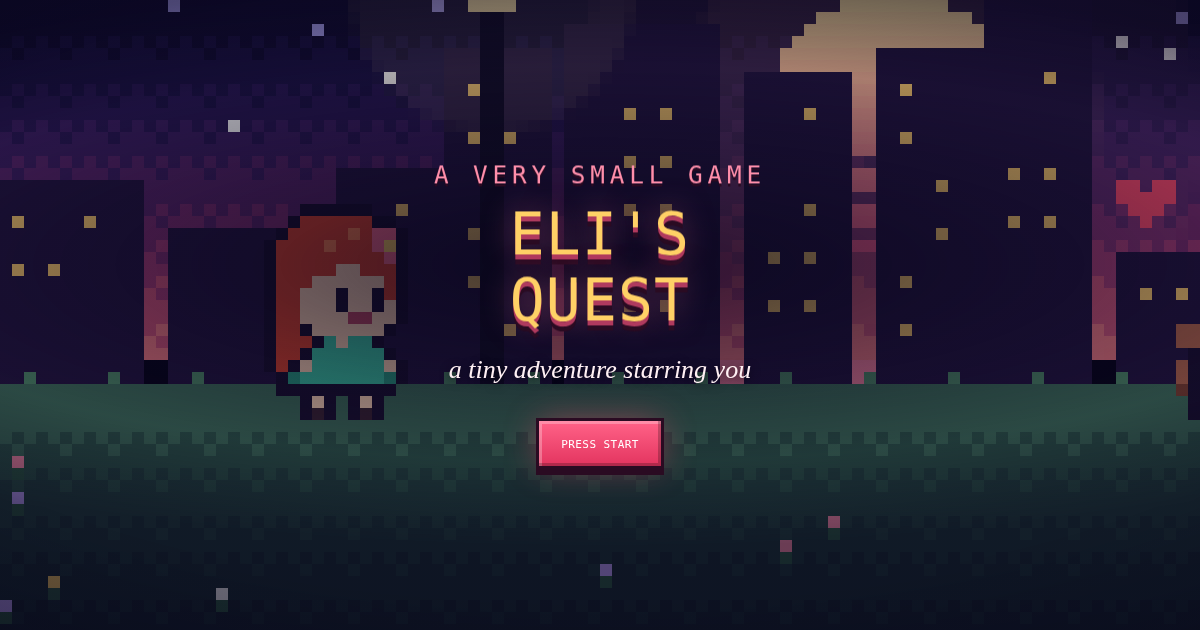
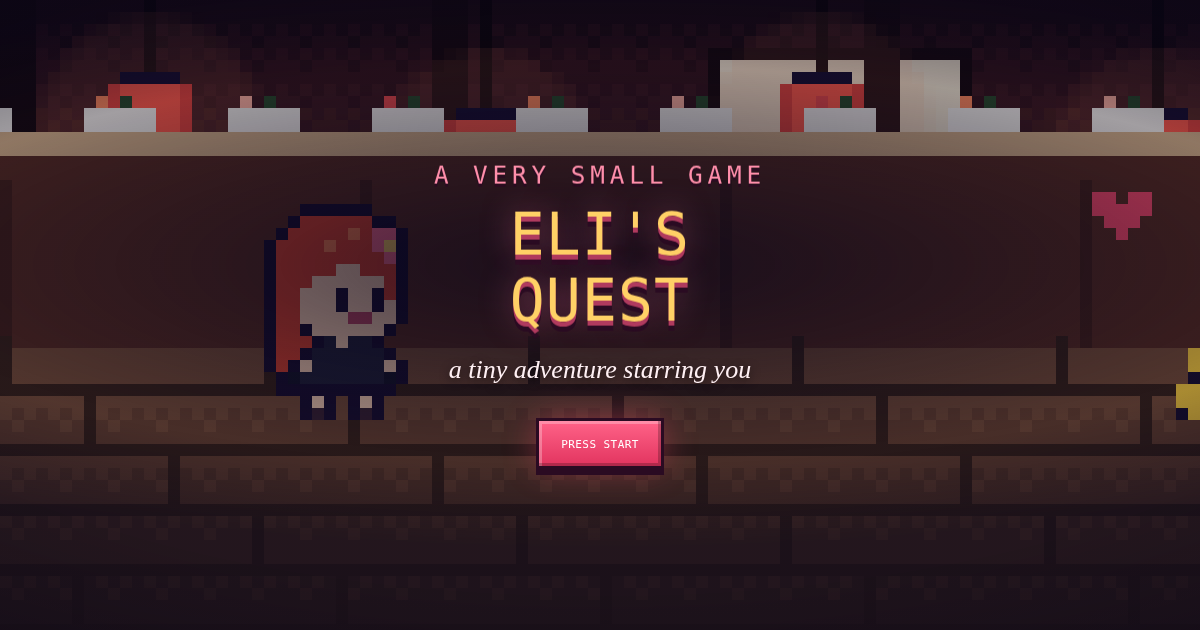
Personalize Eli's Quest with the real story
Levels now follow how they met: the sushi restaurant in Hialeah (new
hostess), after-close streets (shift leader, with roosters), the 4pm
storm flirting era, and Valentine's Day at Agave Bandido. New themes,
obstacles, work-uniform and date-night costumes, level scenes and an
ending that goes hostess, shift leader, Valentine, wife.

Claude-Session: https://claude.ai/code/session_017GTG4AepKQYuvL7zVGC7w4

diff --git a/quest/index.html b/quest/index.html
@@ -228,9 +228,9 @@ a.btn{text-decoration:none;display:inline-block}
     <div class="step fk" data-wait="900" data-sfx="levelup">QUEST COMPLETE</div>
     <div class="step fs" data-wait="1300">You collected <b id="finalCount">0</b> hearts.</div>
     <div class="step fs" data-wait="1600">(I have infinitely more for you.)</div>
-    <div class="step fb" data-wait="1900" data-sfx="reveal">You found me.</div>
-    <div class="step fs" data-wait="1400">You always do.</div>
-    <div class="step fl" data-wait="2000" data-sfx="chime">LEVEL ∞ · FOREVER WITH ME<br>UNLOCKED 🔓</div>
+    <div class="step fs" data-wait="1900">From the new hostess…<br>to my shift leader…<br>to my Valentine…</div>
+    <div class="step fb" data-wait="2600" data-sfx="reveal">…to my wife.</div>
+    <div class="step fl" data-wait="2200" data-sfx="chime">LEVEL ∞ · FOREVER<br>UNLOCKED 💍</div>
     <div class="step row" data-wait="1400"><button id="again" class="btn ghost">↺ PLAY AGAIN</button><a class="btn" href="../">OUR STORY ❤</a></div>
   </section>
   <div id="hint"><span class="ph"></span><span id="hintTxt">TAP</span></div>
@@ -376,6 +376,7 @@ const AudioSys = (() => {
     jump2() { blip(520, 1180, .12, 'pulse', .055); },
     coin() { blip(988, null, .05, 'pulse', .05); blip(1319, null, .09, 'pulse', .05, .05); },
     meow() { blip(700, 420, .22, 'triangle', .08); },
+    crow() { [[600, 900], [900, 1100], [1100, 700]].forEach(([a, b], i) => blip(a, b, .12, 'pulse', .05, .05 + i * .12)); },
     levelup() { arp([72, 76, 79, 84, 88], .08, .18, .08, 'pulse'); },
     pop() { blip(520, 1100, .08, 'triangle', .14); },
     heart() { arp([81, 85, 88], .07, .12, .09); },
@@ -678,10 +679,17 @@ function retroSun(cx, cy, r) {
 /* ---------- CONFIG: edit these lines to make it even more yours ---------- */
 const CONFIG = {
   levels: [
-    { theme: 'park',   title: 'the first hello', memory: 'The first time you smiled at me, I forgot how to talk.' },
-    { theme: 'market', title: 'snack run',       memory: 'You steal my food. I let you. That’s love.' },
-    { theme: 'rain',   title: 'rainy day',       memory: 'Even on rainy days, you’re my favorite weather.' },
-    { theme: 'hill',   title: 'under the stars', memory: 'Every star up there is a little jealous of you.' },
+    { theme: 'sushi', label: 'LEVEL 1 · HIALEAH, FL', title: 'the new hostess',
+      memory: 'You walked into Sushi Sake as the new hostess. I had no idea I\u2019d just met my whole future.',
+      girl: { D: '#23233a', d: '#16162a' }, boy: { C: '#2a2a3e', c: '#1c1c2c', P: '#1c1c2c' }, bacc: ['tux'] },
+    { theme: 'hialeah', label: 'LEVEL 2 · AFTER CLOSE', title: 'shift leader',
+      memory: 'Years of shifts side by side. You were my right hand long before you had my heart.',
+      girl: { D: '#23233a', d: '#16162a' }, boy: { C: '#2a2a3e', c: '#1c1c2c', P: '#1c1c2c' }, bacc: ['tux'] },
+    { theme: 'rain', label: 'LEVEL 3 · 4PM STORMS', title: 'the flirting era',
+      memory: 'All our little flirty moments. I still replay every single one.' },
+    { theme: 'valentine', label: 'LEVEL 4 · FEBRUARY 14', title: 'Valentine\u2019s at Agave Bandido',
+      memory: 'February 14th. Agave Bandido. Our very first date, and the start of everything.',
+      girl: { D: '#e2345f', d: '#b01f45' }, boy: { C: '#f4f0ff', c: '#d4cfe8', P: '#2b3050' } },
   ],
 };
 
@@ -699,6 +707,13 @@ const OBS = {
   cat: { w: 8, h: 7, draw(x, gy, t) { const c = '#221e33'; rect(x + 1, gy - 4, 5, 4, c); rect(x + 4, gy - 7, 4, 3, c); px(x + 4, gy - 8, c); px(x + 7, gy - 8, c); const blink = Math.floor(t / 1700) % 4 === 0; if (!blink) { px(x + 5, gy - 6, '#ffd166'); px(x + 7, gy - 6, '#ffd166'); } const tw = Math.floor(t / 300) % 2; px(x, gy - 2 - tw, c); px(x, gy - 3 - tw, c); px(x + 6, gy - 5, '#ff8fab'); } },
   puddle: { w: 12, h: 2, draw(x, gy, t) { rect(x, gy - 1, 12, 1, '#5d8fe0'); rect(x + 2, gy - 2, 8, 1, '#8fc0ff'); if (Math.floor(t / 250) % 2) px(x + 4 + Math.floor(t / 500) % 4, gy - 2, '#e6f1ff'); } },
   hedge: { w: 9, h: 7, draw(x, gy) { rect(x, gy - 7, 9, 7, '#2f6a45'); rect(x + 1, gy - 8, 7, 1, '#2f6a45'); for (let i = 0; i < 6; i++) px(x + 1 + (i * 3) % 8, gy - 6 + (i * 5) % 6, '#3f8a5a'); } },
+  stool: { w: 6, h: 7, draw(x, gy) { rect(x, gy - 7, 6, 2, '#a86b3c'); rect(x, gy - 7, 6, 1, '#c98a55'); rect(x, gy - 5, 1, 5, K_); rect(x + 5, gy - 5, 1, 5, K_); rect(x, gy - 2, 6, 1, '#7a4a28'); } },
+  wetfloor: { w: 7, h: 9, draw(x, gy) { for (let r = 0; r < 9; r++) { const hw = 1 + Math.floor(r / 3); rect(x + 3 - hw, gy - 9 + r, hw * 2 + 1, 1, r === 5 ? K_ : '#ffd23f'); } px(x + 3, gy - 7, K_); px(x + 3, gy - 6, '#ffd23f'); px(x, gy - 1, K_); px(x + 6, gy - 1, K_); } },
+  plates: { w: 6, h: 6, draw(x, gy) { for (let r = 0; r < 6; r++) { rect(x, gy - 6 + r, 6, 1, r % 2 ? '#cfc8bd' : '#f4f0ea'); } rect(x, gy - 6, 6, 1, '#3a6ea5'); } },
+  sake: { w: 4, h: 8, draw(x, gy) { rect(x + 1, gy - 8, 2, 2, '#e8f0f4'); rect(x, gy - 6, 4, 6, '#e8f0f4'); rect(x, gy - 4, 4, 2, '#c2253a'); px(x + 1, gy - 9, K_); px(x + 2, gy - 9, K_); } },
+  rooster: { w: 8, h: 9, draw(x, gy, t) { const b = Math.floor(t / 260) % 2; px(x, gy - 8, '#1f4a3a'); px(x, gy - 7, '#2f6a52'); px(x + 1, gy - 7, '#1f4a3a'); rect(x, gy - 6, 2, 2, '#2f6a52'); rect(x + 1, gy - 5, 5, 3, '#c2452d'); rect(x + 2, gy - 4, 3, 1, '#e8a04a'); rect(x + 5, gy - 8 + b, 2, 3, '#c2452d'); px(x + 5, gy - 9 + b, '#ff3040'); px(x + 6, gy - 9 + b, '#ff3040'); px(x + 7, gy - 7 + b, '#ffd166'); px(x + 6, gy - 7 + b, K_); px(x + 6, gy - 5 + b, '#ff3040'); rect(x + 3, gy - 2, 1, 2, '#ffd166'); rect(x + 4, gy - 2, 1, 2, '#ffd166'); } },
+  cart: { w: 9, h: 7, draw(x, gy) { const c = '#b8c0cc'; rect(x, gy - 7, 9, 1, c); rect(x + 1, gy - 3, 7, 1, c); for (let i = 0; i < 9; i += 2) rect(x + i, gy - 7, 1, 4, c); rect(x + 1, gy - 2, 1, 1, c); rect(x + 7, gy - 2, 1, 1, c); px(x + 1, gy - 1, K_); px(x + 7, gy - 1, K_); rect(x, gy - 6, 9, 1, 'rgba(184,192,204,.5)'); } },
+  cactus: { w: 6, h: 10, draw(x, gy) { rect(x, gy - 3, 6, 3, '#c2603a'); rect(x, gy - 3, 6, 1, '#e07a52'); rect(x + 2, gy - 10, 2, 7, '#3f9a5a'); rect(x + 1, gy - 7, 1, 2, '#3f9a5a'); px(x + 1, gy - 8, '#3f9a5a'); rect(x + 4, gy - 8, 1, 2, '#3f9a5a'); px(x + 4, gy - 9, '#3f9a5a'); px(x + 3, gy - 10, '#ff8fab'); } },
   lantern: { w: 5, h: 10, draw(x, gy, t) { rect(x + 2, gy - 8, 1, 8, K_); rect(x + 1, gy - 11, 3, 3, K_); rect(x + 2, gy - 10, 1, 1, '#ffcf70'); glow(x + 2.5, gy - 9.5, 4, '#ffcf70', .15 + .05 * Math.sin(t * .004)); rect(x, gy - 1, 5, 1, K_); } },
 };
 
@@ -708,7 +723,48 @@ const STARS = (() => { const R = rng(9); return [...Array(90)].map(() => ({ x: M
 const FLOW = (() => { const R = rng(4); return [...Array(30)].map(() => ({ x: Math.floor(R() * 260), y: R(), c: ['#ff8fab', '#ffd166', '#c3a6ff', '#ffffff'][Math.floor(R() * 4)] })); })();
 function starsDraw(t, maxY, par = 0, c = 0) { for (const s of STARS) { const x = wrap(s.x - c * par, 200); if (x >= W) continue; const y = Math.floor(s.y * maxY); if (Math.sin(t * .002 + s.p) > -.3) px(x, y, Math.sin(t * .002 + s.p) > .7 ? '#fff' : '#b7adff'); } }
 function flowersDraw(c, gy, top = 3) { for (const f of FLOW) { const x = wrap(f.x - c, 260) - 20; if (x < -1 || x > W) continue; const y = Math.round(gy + top + f.y * (H - gy - top - 3)); px(x, y, f.c); px(x, y + 1, '#2f5d45'); } }
+function palm(x, gy, h, c) { let tx = x, ty = gy; for (let i = 0; i < h; i++) { tx = x + Math.sin(i / h * 1.6) * 3; ty = gy - i; rect(tx, ty, 2, 1, c); } for (const [dx, dy] of [[-1, 0], [1, 0], [-1, .5], [1, .5], [-.6, -.5], [.6, -.5], [0, -1]]) for (let k = 1; k < 8; k++) px(tx + 1 + dx * k, ty + dy * k + (Math.abs(dx) > .8 ? k * k * .06 : 0), c); }
 const THEMES = {
+  sushi: { obs: ['stool', 'wetfloor', 'plates', 'sake'], bg(s, t) {
+    const gy = s.gy, c = s.camX, wallB = gy - 24;
+    sky(0, wallB, ['#1e0d12', '#2a1117', '#34151b', '#3d1a1f', '#46201f']);
+    for (let k = Math.floor(c * .45 / 150) - 1; k < Math.floor(c * .45 / 150) + 2; k++) { const x = Math.round(k * 150 + 70 - c * .45); rect(x - 11, H * .28 - 11, 22, 22, '#170a0d'); rect(x - 10, H * .28 - 10, 20, 20, '#f2e6d0'); disc(x, Math.round(H * .28), 6, '#c2253a'); }
+    for (let k = Math.floor(c * .5 / 36) - 1; k < Math.floor(c * .5 / 36) + 5; k++) rect(Math.round(k * 36 - c * .5), 0, 3, wallB, '#170a0d');
+    for (let k = Math.floor(c * .7 / 28) - 1; k < Math.floor(c * .7 / 28) + 6; k++) { const x = Math.round(k * 28 + 10 - c * .7), y = Math.round(H * .12) + (k % 2) * 3; rect(x + 2, 0, 1, y, '#0e0608'); glow(x + 2.5, y + 4, 9, '#ff8a5b', .12); rect(x, y, 5, 1, K_); rect(x - 1, y + 1, 7, 6, '#e2453c'); rect(x, y + 1, 5, 6, '#ff5a48'); rect(x, y + 7, 5, 1, K_); px(x + 2, y + 3, '#ffd166'); }
+    rect(0, wallB, W, 2, '#d8b48a'); rect(0, wallB + 2, W, 16, '#5a2e22'); for (let k = Math.floor(c * .85 / 12) - 1; k < Math.floor(c * .85 / 12) + 10; k++) { const x = Math.round(k * 12 - c * .85 + (t * .01) % 12); rect(x, wallB - 2, 6, 2, '#f4f0ea'); px(x + 1, wallB - 3, ['#ff8a5b', '#ffb3a0', '#e84a4a'][wrap(k, 3)]); px(x + 3, wallB - 3, '#2a4a2a'); }
+    for (let k = Math.floor(c * .85 / 30); k < Math.floor(c * .85 / 30) + 5; k++) rect(Math.round(k * 30 - c * .85), wallB + 4, 1, 14, '#46231a');
+    sky(gy - 6, H, ['#7a5038', '#6b4430', '#5c3a29', '#4e3123', '#41291e']);
+    for (let y = gy - 3, r = 0; y < H; y += 5, r++) { rect(0, y, W, 1, '#3a2419'); for (let x = wrap(-c + r * 7, 22) - 22; x < W; x += 22) rect(x, y - 4, 1, 4, '#3a2419'); }
+  } },
+  hialeah: { obs: ['rooster', 'cart', 'cone'], bg(s, t) {
+    const gy = s.gy, c = s.camX, cols = ['#e0869b', '#5fb7b0', '#e8c36a', '#b58ad8'];
+    sky(0, gy, ['#170e3a', '#261450', '#40195c', '#6a2464', '#a23e6c', '#e0706a']);
+    starsDraw(t, H * .25);
+    for (let k = Math.floor(c * .3 / 30) - 1; k < Math.floor(c * .3 / 30) + 5; k++) { const x = Math.round(k * 30 - c * .3), h = 16 + wrap(k * 7, 10), col = mix(cols[wrap(k, 4)], '#1a1030', .55);
+      rect(x, gy - 6 - h, 27, h + 6, col); rect(x, gy - 6 - h, 27, 2, mix(col, '#000', .3));
+      if (wrap(k, 3) === 0) { rect(x + 5, gy - 16, 17, 8, '#ffcf70'); glow(x + 13, gy - 12, 12, '#ffcf70', .15); rect(x + 4, gy - 19, 19, 3, '#1a1030'); rect(x + 10, gy - 23, 7, 4, '#1a1030'); rect(x + 11, gy - 22, 4, 2, '#fff4e6'); px(x + 15, gy - 22, '#fff4e6'); px(x + 12, gy - 21, '#8a4b2a'); }
+      else { for (let yy = 4; yy < h - 2; yy += 5) for (let xx = 3; xx < 24; xx += 6) px(x + xx, gy - 6 - h + yy, (xx + yy + k) % 3 ? '#ffcf70' : mix(col, '#000', .4)); rect(x + 3, gy - 6 - h + 3, 21, 1, ['#ff5fa2', '#5ff2e0'][wrap(k, 2)]); } }
+    for (let k = Math.floor(c * .6 / 47) - 1; k < Math.floor(c * .6 / 47) + 4; k++) palm(Math.round(k * 47 + 20 - c * .6), gy - 4, 26 + wrap(k * 5, 8), '#1c1233');
+    rect(0, gy - 4, W, 4, '#8a8098'); rect(0, gy - 4, W, 1, '#a89eb6');
+    sky(gy, H, ['#3a3650', '#2e2a42', '#27243a', '#211f33']);
+    for (let x = wrap(-c, 16) - 16; x < W; x += 16) rect(x, gy + 12, 8, 1, '#e8c36a');
+  } },
+  valentine: { obs: ['cactus', 'stool', 'lantern'], bg(s, t) {
+    const gy = s.gy, c = s.camX, m = s.magic || 0;
+    const A = ['#0a0b2a', '#120f3a', '#1d1548', '#2c1b56', '#3e2160'], B = ['#0b0526', '#170a3d', '#2a0f55', '#43156a', '#641d78'];
+    sky(0, gy, A.map((q, i) => mix(q, B[i], m)));
+    if (m > .01) { const cols = ['#5cf2c2', '#6fd3ff', '#c28bff', '#ff8fd0']; for (let x = 0; x < W; x++) { const y = H * .16 + Math.sin(x * .07 + t * .0008) * 7 + Math.sin(x * .023 - t * .0005) * 9; g.globalAlpha = .2 * m; g.fillStyle = cols[Math.floor((Math.sin(x * .03 + t * .0004) + 1) * 1.99)]; g.fillRect(x, Math.round(y), 1, 14); } g.globalAlpha = 1; }
+    starsDraw(t, gy - 40, .05, c); if (m > .3) starsDraw(t + 999, gy - 40, .08, c + 77);
+    const mx = Math.round(W * .8), my = Math.round(H * .12); glow(mx, my, 14, '#fff1d6', .08); disc(mx, my, 6, '#fff0cf');
+    for (let k = 0; k < 7; k++) { const x = wrap(k * 29 - c * .15, W + 20) - 10, y = H * .08 + (k * 13 % 30) + Math.sin(t * .002 + k) * 2; drawSprite(HEART5, x, y, { R: k % 2 ? '#ff8fab' : '#ff4d6d' }); }
+    const top = gy - 42; rect(0, top, W, 42, '#8a4232'); rect(0, top, W, 3, '#5a2a22'); rect(0, top + 3, W, 1, '#c2603a');
+    for (let k = Math.floor(c * .5 / 26) - 1; k < Math.floor(c * .5 / 26) + 6; k++) { const x = Math.round(k * 26 + 6 - c * .5); rect(x, top + 12, 12, 24, '#3a1a14'); disc(x + 6, top + 12, 6, '#3a1a14'); rect(x + 1, top + 13, 10, 23, '#ffb55e'); disc(x + 6, top + 13, 5, '#ffb55e'); glow(x + 6, top + 22, 10, '#ffb55e', .12); rect(x + 5, top + 8, 1, 28, '#3a1a14'); rect(x + 1, top + 24, 10, 1, '#3a1a14'); }
+    for (let k = Math.floor(c * .5 / 170) - 1; k < Math.floor(c * .5 / 170) + 2; k++) { const x = Math.round(k * 170 + 60 - c * .5); rect(x - 16, top - 12, 32, 12, '#1a1030'); rect(x - 15, top - 11, 30, 10, '#2a1a40'); for (const [dx, h] of [[-4, 5], [-2, 7], [0, 8], [2, 7], [4, 5]]) rect(x + dx - 9, top - 3 - h, 1, h, '#5fb87a'); drawSprite(HEART5, x + 3, top - 8, { R: '#ff4d6d' }); drawSprite(HEART5, x + 9, top - 8, { R: '#ffd166' }); }
+    const pcols = ['#ff4d6d', '#ffd166', '#5fd6c8', '#b58ad8', '#ff8fab', '#7ad06a'];
+    for (const row of [0, 1]) { const y0 = Math.round(H * (.24 + row * .07)), par = .7 + row * .1; for (let x = 0; x < W; x++) { const u = wrap(x + c * par, 50) / 25 - 1; px(x, y0 + 4 * (1 - u * u), '#0a0718'); } for (let x = wrap(-c * par, 5); x < W; x += 5) { const u = wrap(x + c * par, 50) / 25 - 1, i = Math.floor((x + c * par) / 5); rect(x, y0 + 4 * (1 - u * u) + 1, 3, 3, pcols[wrap(i + row, 6)]); } }
+    sky(gy - 2, H, ['#b0604a', '#9a5040', '#8a4a3a', '#7a4034', '#6a382e']);
+    for (let y = gy + 2, r = 0; y < H; y += 6, r++) { rect(0, y, W, 1, '#5a2e26'); for (let x = wrap(-c + r * 5, 12) - 12; x < W; x += 12) rect(x, y - 5, 1, 5, '#5a2e26'); }
+  } },
   park: { obs: ['bench', 'bush', 'rock'], bg(s, t) {
     const gy = s.gy, c = s.camX, hy = gy - 5;
     sky(0, hy, ['#130d33', '#1c1344', '#291852', '#3c1f60', '#582669', '#7c2f70', '#a53d76', '#cf5579', '#ee7a82']);
@@ -762,11 +818,11 @@ const THEMES = {
 function drawUmbrella(x, top, open = 1) { const w = Math.round(17 * open); rect(x, top + 4, 1, 13, K_); px(x + 1, top + 17, K_); for (let dy = 0; dy < 5; dy++) { const hw = Math.round(w / 2 * Math.sqrt(1 - Math.pow((4 - dy) / 5, 2))); for (let xx = -hw; xx <= hw; xx++) px(x + xx, top + dy, Math.floor((xx + 20) / 3) % 2 ? '#fff4f6' : '#e8455f'); px(x - hw - 1, top + dy, K_); px(x + hw + 1, top + dy, K_); } px(x, top - 1, K_); }
 function makeLevel(i) {
   const cfg = CONFIG.levels[i], th = THEMES[cfg.theme], R = rng(100 + i);
-  const s = { name: 'level', i, cfg, th, camX: 0, speed: 40 + i * 4, len: 760 + i * 110, rain: cfg.theme === 'rain' ? 1 : 0, rainbow: 0, magic: 0, got: 0, obstacles: [], hearts: [], memory: null, cam: 0 };
+  const s = { name: 'level', i, cfg, th, camX: 0, speed: 40 + i * 4, len: 760 + i * 110, rain: cfg.theme === 'rain' ? 1 : 0, rose: null, rainbow: 0, magic: 0, got: 0, obstacles: [], hearts: [], memory: null, cam: 0 };
   s.layout = () => { s.gy = Math.round(H * .66); }; s.layout();
   const gx = Math.round(W * .28);
-  s.girl = actor('girl', gx, 1, { walk: false, mouth: 'smile', vy: 0, jumps: 0 });
-  s.boy = actor('boy', 0, -1, { mouth: 'smile' });
+  s.girl = actor('girl', gx, 1, { walk: false, mouth: 'smile', vy: 0, jumps: 0, costume: cfg.girl || null, acc: cfg.gacc || [] });
+  s.boy = actor('boy', 0, -1, { mouth: 'smile', costume: cfg.boy || null, acc: cfg.bacc || [] });
   s.boyWX = s.len + Math.round(W * .72);
   s.actors = [s.girl, s.boy];
   const memAt = s.len * .55 + gx;
@@ -806,6 +862,7 @@ function makeLevel(i) {
   };
   s.front = () => {
     if (s.cone) drawSprite(CONE, s.cone.x - 2, s.cone.y - 7, ITEM_PAL);
+    if (s.rose) drawSprite(FLOWER, s.rose.x - 1, s.rose.y - 5, ITEM_PAL);
     if (s.umb) drawUmbrella(Math.round(s.umb.x), s.gy - 29, s.umb.open);
     if (s.big) { const b = s.big, k = Math.max(1, Math.round(b.k)); glow(b.x, b.y, 8 + k * 5, '#ff8fab', .15); drawSprite(HEARTBIG, b.x - 3.5 * k, b.y - 3 * k, { R: '#ff4d6d', W: '#ffd1dc' }, false, k); }
     if (s.fill > 0) { g.globalAlpha = s.fill; rect(0, 0, W, H, '#ff4d6d'); g.globalAlpha = 1; }
@@ -814,7 +871,7 @@ function makeLevel(i) {
   return s;
 }
 function bump(o) {
-  const G = level.girl; SFX.boing(); if (o.type === 'cat') SFX.meow();
+  const G = level.girl; SFX.boing(); if (o.type === 'cat') SFX.meow(); if (o.type === 'rooster') SFX.crow();
   G.icon = icon('sweat'); G.shake = 1; setTimeout(() => { G.shake = 0; if (G.icon && G.icon.type === 'sweat') G.icon = null; }, 450);
   if (o.type === 'puddle') for (let i = 0; i < 6; i++) spawn({ type: 'dot', x: G.x + rand(-3, 3), y: level.gy - 1, vx: rand(-20, 20), vy: rand(-40, -20), ay: 120, life: 400, c: '#8fc0ff' });
   if (level.got > 0) { level.got--; total--; hud(); spawn({ type: 'heart', x: G.x, y: headY(G) - 2, vx: -10, vy: -20, ay: 30, life: 600, c: '#6b6480' }); }
@@ -838,6 +895,25 @@ function hideJumpHint() { $('#jumpHint').classList.remove('show'); }
 
 /* ---------- end-of-level moments ---------- */
 const CUTS = {
+  async sushi(s) { const { girl, boy } = s; boy.icon = icon('!'); SFX.pop(); await wait(450); boy.icon = icon('heart'); boy.blush = 1; SFX.heart(); await walkTo(girl, boy.x - 13, 26); boy.icon = null;
+    await say(boy, 'Welcome to the team.'); await wait(600); clearBubbles(); await say(girl, 'Thanks, boss 😏'); boy.blush = 2;
+    for (let i = 0; i < 10; i++) setTimeout(() => spawn({ type: 'steam', x: boy.x + rand(-3, 3), y: headY(boy), vx: rand(-3, 3), vy: -14, life: 800 }), i * 110);
+    await hop(boy, 4); await wait(400); },
+  async hialeah(s) { const { girl, boy } = s; await walkTo(girl, boy.x - 13, 26); boy.blush = 1;
+    await say(boy, 'Wanna hang out after close?'); await wait(600); clearBubbles(); girl.blush = 1; await say(girl, 'Thought you\u2019d never ask.');
+    floatHearts((girl.x + boy.x) / 2, headY(boy) - 2, 3); SFX.heart(); await Promise.all([hop(boy, 3), wait(120).then(() => hop(girl, 3))]); await wait(300); },
+  async valentine(s) {
+    const { girl, boy } = s; s.rose = { x: boy.x - 5, y: s.gy - 3 }; await walkTo(girl, boy.x - 13, 22); boy.blush = 1;
+    await say(boy, 'Happy Valentine\u2019s Day.'); await wait(600); clearBubbles();
+    await tween(450, e => s.rose.x = lerp(boy.x - 5, girl.x + 5, e)); girl.blush = 2; girl.eyes = 'closed'; floatHearts(girl.x, headY(girl), 3); SFX.heart(); await wait(400); girl.eyes = 'open';
+    await say(girl, 'Best first date ever.'); await wait(900); clearBubbles();
+    await walkTo(girl, boy.x - 11, 8); s.rose.x = girl.x + 5; girl.tiptoe = 1; girl.eyes = boy.eyes = 'closed'; girl.blush = boy.blush = 2; girl.mouth = boy.mouth = 'none';
+    SFX.kiss(); flash(600, .3); burst((girl.x + boy.x) / 2, headY(boy) + 2, 26, 46); tween(2600, e => s.magic = e);
+    await wait(2400); girl.tiptoe = 0; girl.eyes = boy.eyes = 'open'; girl.mouth = boy.mouth = 'smile'; await wait(600);
+    const cx = (girl.x + boy.x) / 2, y0 = headY(boy) - 4; s.big = { x: cx, y: y0, k: 1 }; SFX.heart();
+    await tween(1800, e => s.big.y = lerp(y0, H * .42, e)); SFX.reveal();
+    await tween(1800, e => s.big.k = 1 + e * e * 46, EASE.lin); await tween(400, e => s.fill = e);
+  },
   async park(s) { const { girl, boy } = s; boy.icon = icon('!'); SFX.pop(); await wait(500); boy.icon = icon('heart'); boy.blush = 1; SFX.heart(); await walkTo(girl, boy.x - 13, 26); boy.icon = null; await say(boy, 'Hi…'); await wait(600); clearBubbles(); await say(girl, 'Hi ❤'); floatHearts(girl.x, headY(girl), 3); SFX.heart(); boy.blush = 2; await hop(boy, 4); await wait(300); },
   async market(s) { const { girl, boy } = s; s.cone = { x: boy.x - 5, y: s.gy - 4 }; await walkTo(girl, boy.x - 14, 26); await say(boy, 'Want some?'); await wait(500); clearBubbles(); await tween(400, e => s.cone.x = lerp(boy.x - 5, girl.x + 5, e)); await say(girl, 'Always.'); girl.nose = true; SFX.nom(); await wait(200); boy.eyes = girl.eyes = 'closed'; boy.mouth = girl.mouth = 'open'; SFX.giggle(); await Promise.all([hop(boy, 3), wait(120).then(() => hop(girl, 3))]); floatHearts((girl.x + boy.x) / 2, headY(boy), 3); boy.eyes = girl.eyes = 'open'; boy.mouth = girl.mouth = 'smile'; await wait(300); },
   async rain(s) { const { girl, boy } = s; s.umb = { x: boy.x, open: 1 }; await walkTo(girl, boy.x - 13, 26); await say(boy, 'Room for two?'); await wait(400); clearBubbles(); await tween(400, e => { boy.x = lerp(s.boyWX - s.camX, s.boyWX - s.camX - 1, e); s.umb.x = lerp(boy.x, (boy.x + girl.x) / 2, e); }); await say(girl, 'Obviously.'); SFX.heart(); floatHearts((girl.x + boy.x) / 2, headY(boy) - 6, 3); await tween(1200, e => { s.rain = 1 - e; s.rainbow = e; }); await tween(300, e => s.umb.open = 1 - e); s.umb = null; await wait(300); },
@@ -859,7 +935,7 @@ async function playLevel(i) {
   scene = level = makeLevel(i);
   mask = { type: 'circle', p: 0, cx: W / 2, cy: level.gy - 10 };
   $('#hud').classList.add('show'); $('#progGirl').style.left = '0%';
-  chapter('LEVEL ' + (i + 1), level.cfg.title);
+  chapter(level.cfg.label || 'LEVEL ' + (i + 1), level.cfg.title);
   await irisTo('circle', 1, 900, W / 2, level.gy - 10);
   if (i === 0) showJumpHint();
   const done = new Promise(r => level.onEnd = r);
